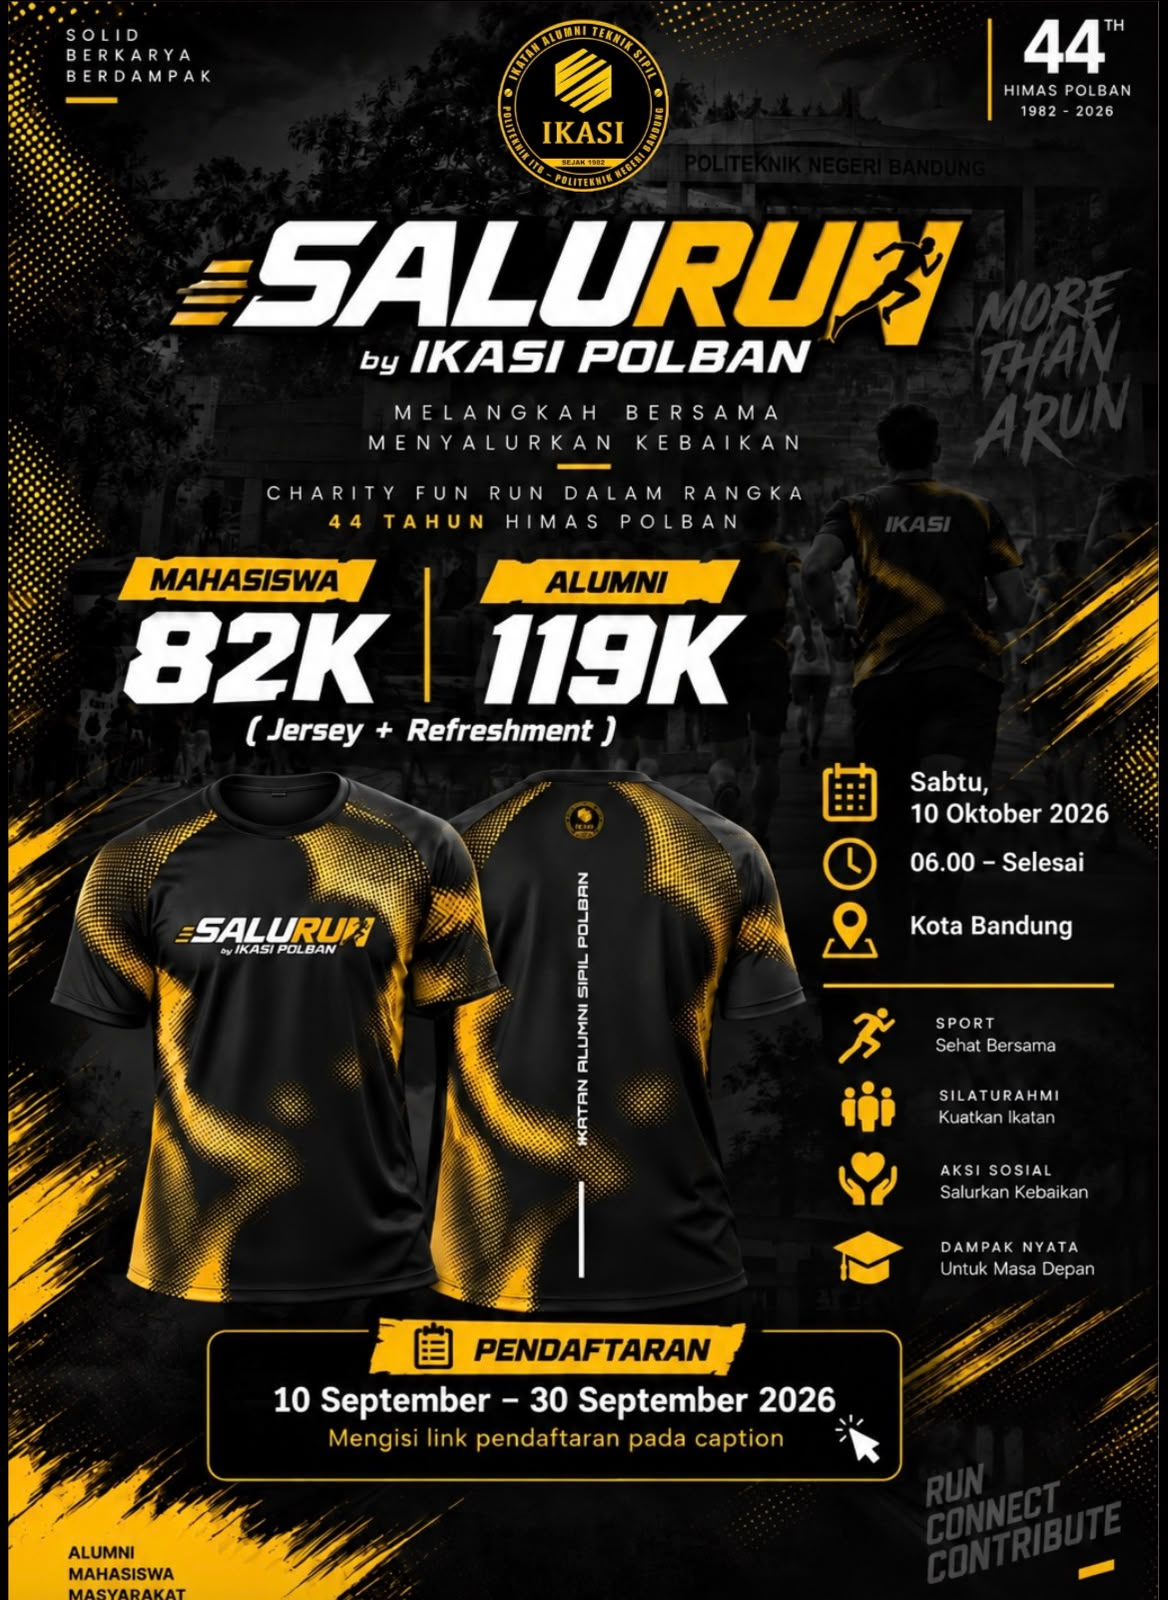
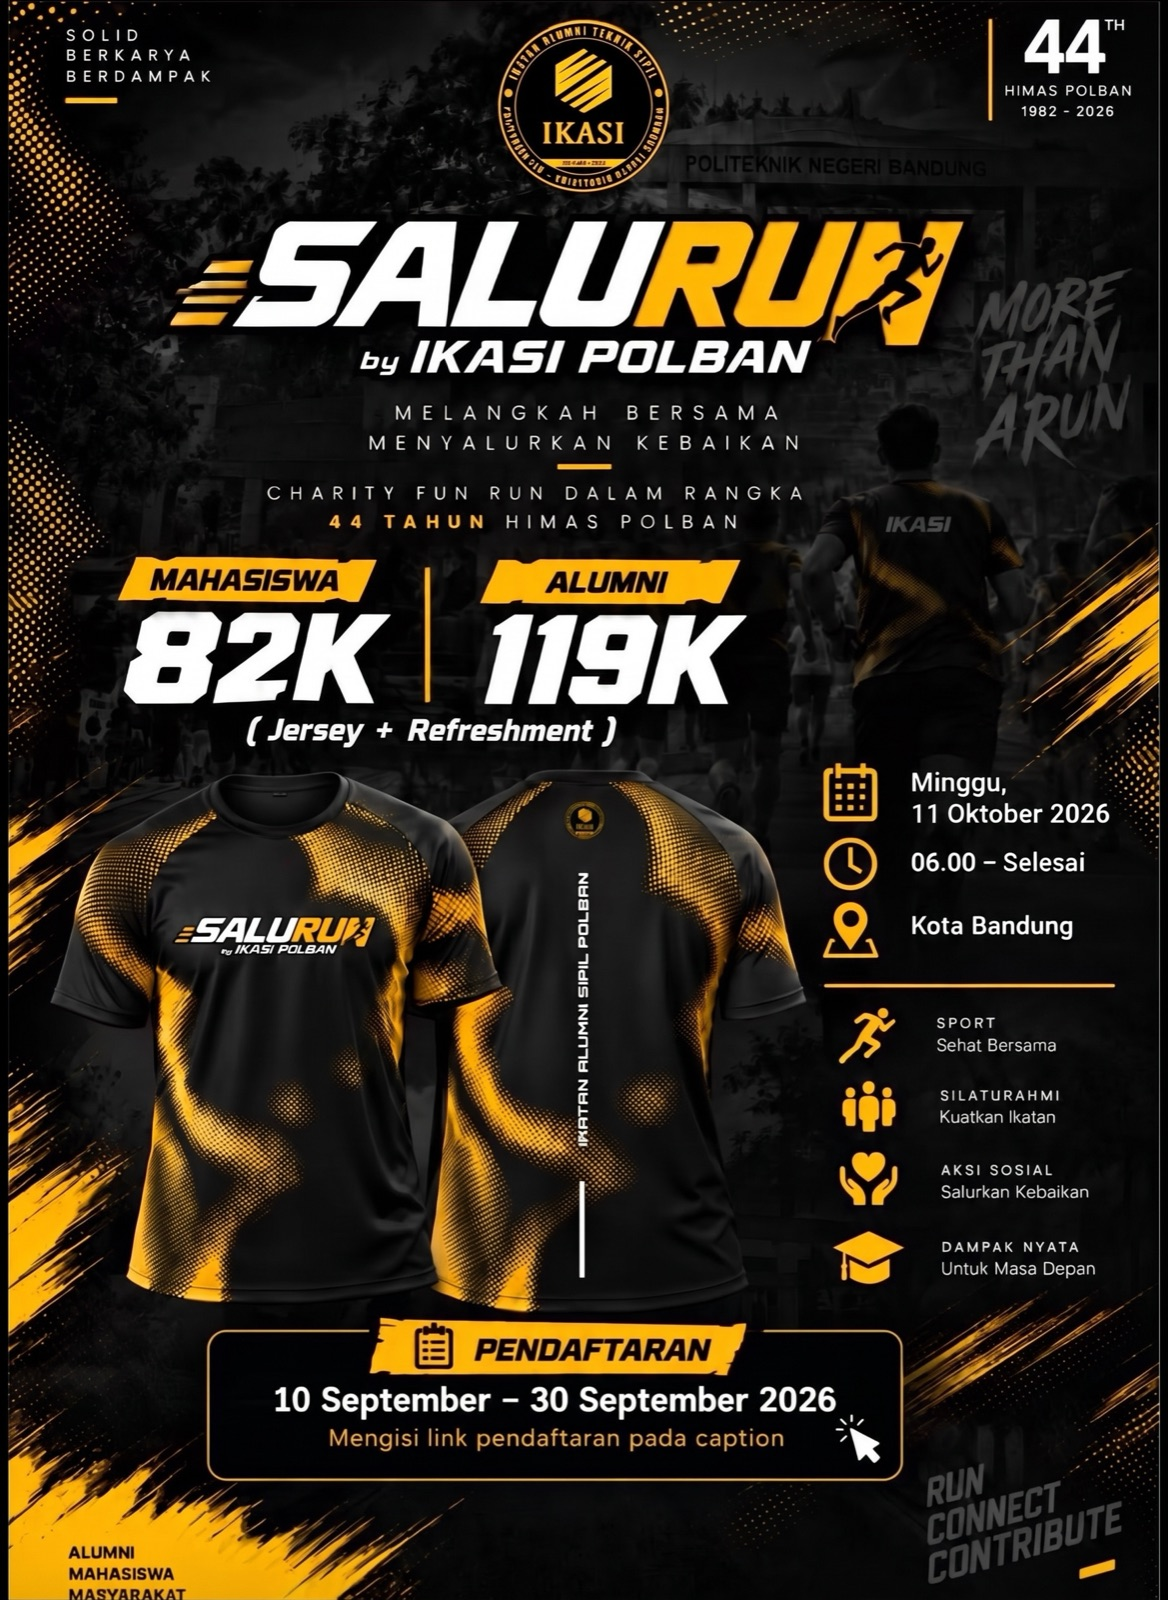
feat(salurun): ganti poster + ubah tanggal jadi Minggu 11 Oktober 2026
Poster baru sudah mencantumkan tanggal Minggu 11 Oktober 2026 langsung
di desainnya. Update teks tanggal pelaksanaan di section Detail Acara
dan metadata deskripsi halaman /salurun agar konsisten dengan poster.

diff --git a/app/(public)/salurun/page.tsx b/app/(public)/salurun/page.tsx
@@ -5,7 +5,7 @@ import { IsiSalurun } from "./_sections";
 export const metadata: Metadata = {
   title: "SALURUN 2026 — Charity Fun Run IKASI POLBAN",
   description:
-    "SALURUN 2026: charity fun run 4,4K oleh IKASI POLBAN dalam rangka 44 Tahun HIMAS POLBAN. Sabtu, 10 Oktober 2026 di Bandung. Dana pendaftaran disalurkan untuk beasiswa mahasiswa Teknik Sipil Polban.",
+    "SALURUN 2026: charity fun run 4,4K oleh IKASI POLBAN dalam rangka 44 Tahun HIMAS POLBAN. Minggu, 11 Oktober 2026 di Bandung. Dana pendaftaran disalurkan untuk beasiswa mahasiswa Teknik Sipil Polban.",
 };
 
 export default function SalurunPage() {

diff --git a/app/(public)/salurun/_sections.tsx b/app/(public)/salurun/_sections.tsx
@@ -112,7 +112,7 @@ export function IsiSalurun() {
         <div className="mt-6 grid gap-4 sm:grid-cols-3">
           <div className={cardCls}>
             <LineIcon name="calendar" size={20} className="text-primary" />
-            <div className="mt-2 font-heading font-bold text-foreground">Sabtu, 10 Oktober 2026</div>
+            <div className="mt-2 font-heading font-bold text-foreground">Minggu, 11 Oktober 2026</div>
             <div className="mt-1 text-sm text-muted-foreground">06.00 – Selesai</div>
           </div>
           <div className={cardCls}>
